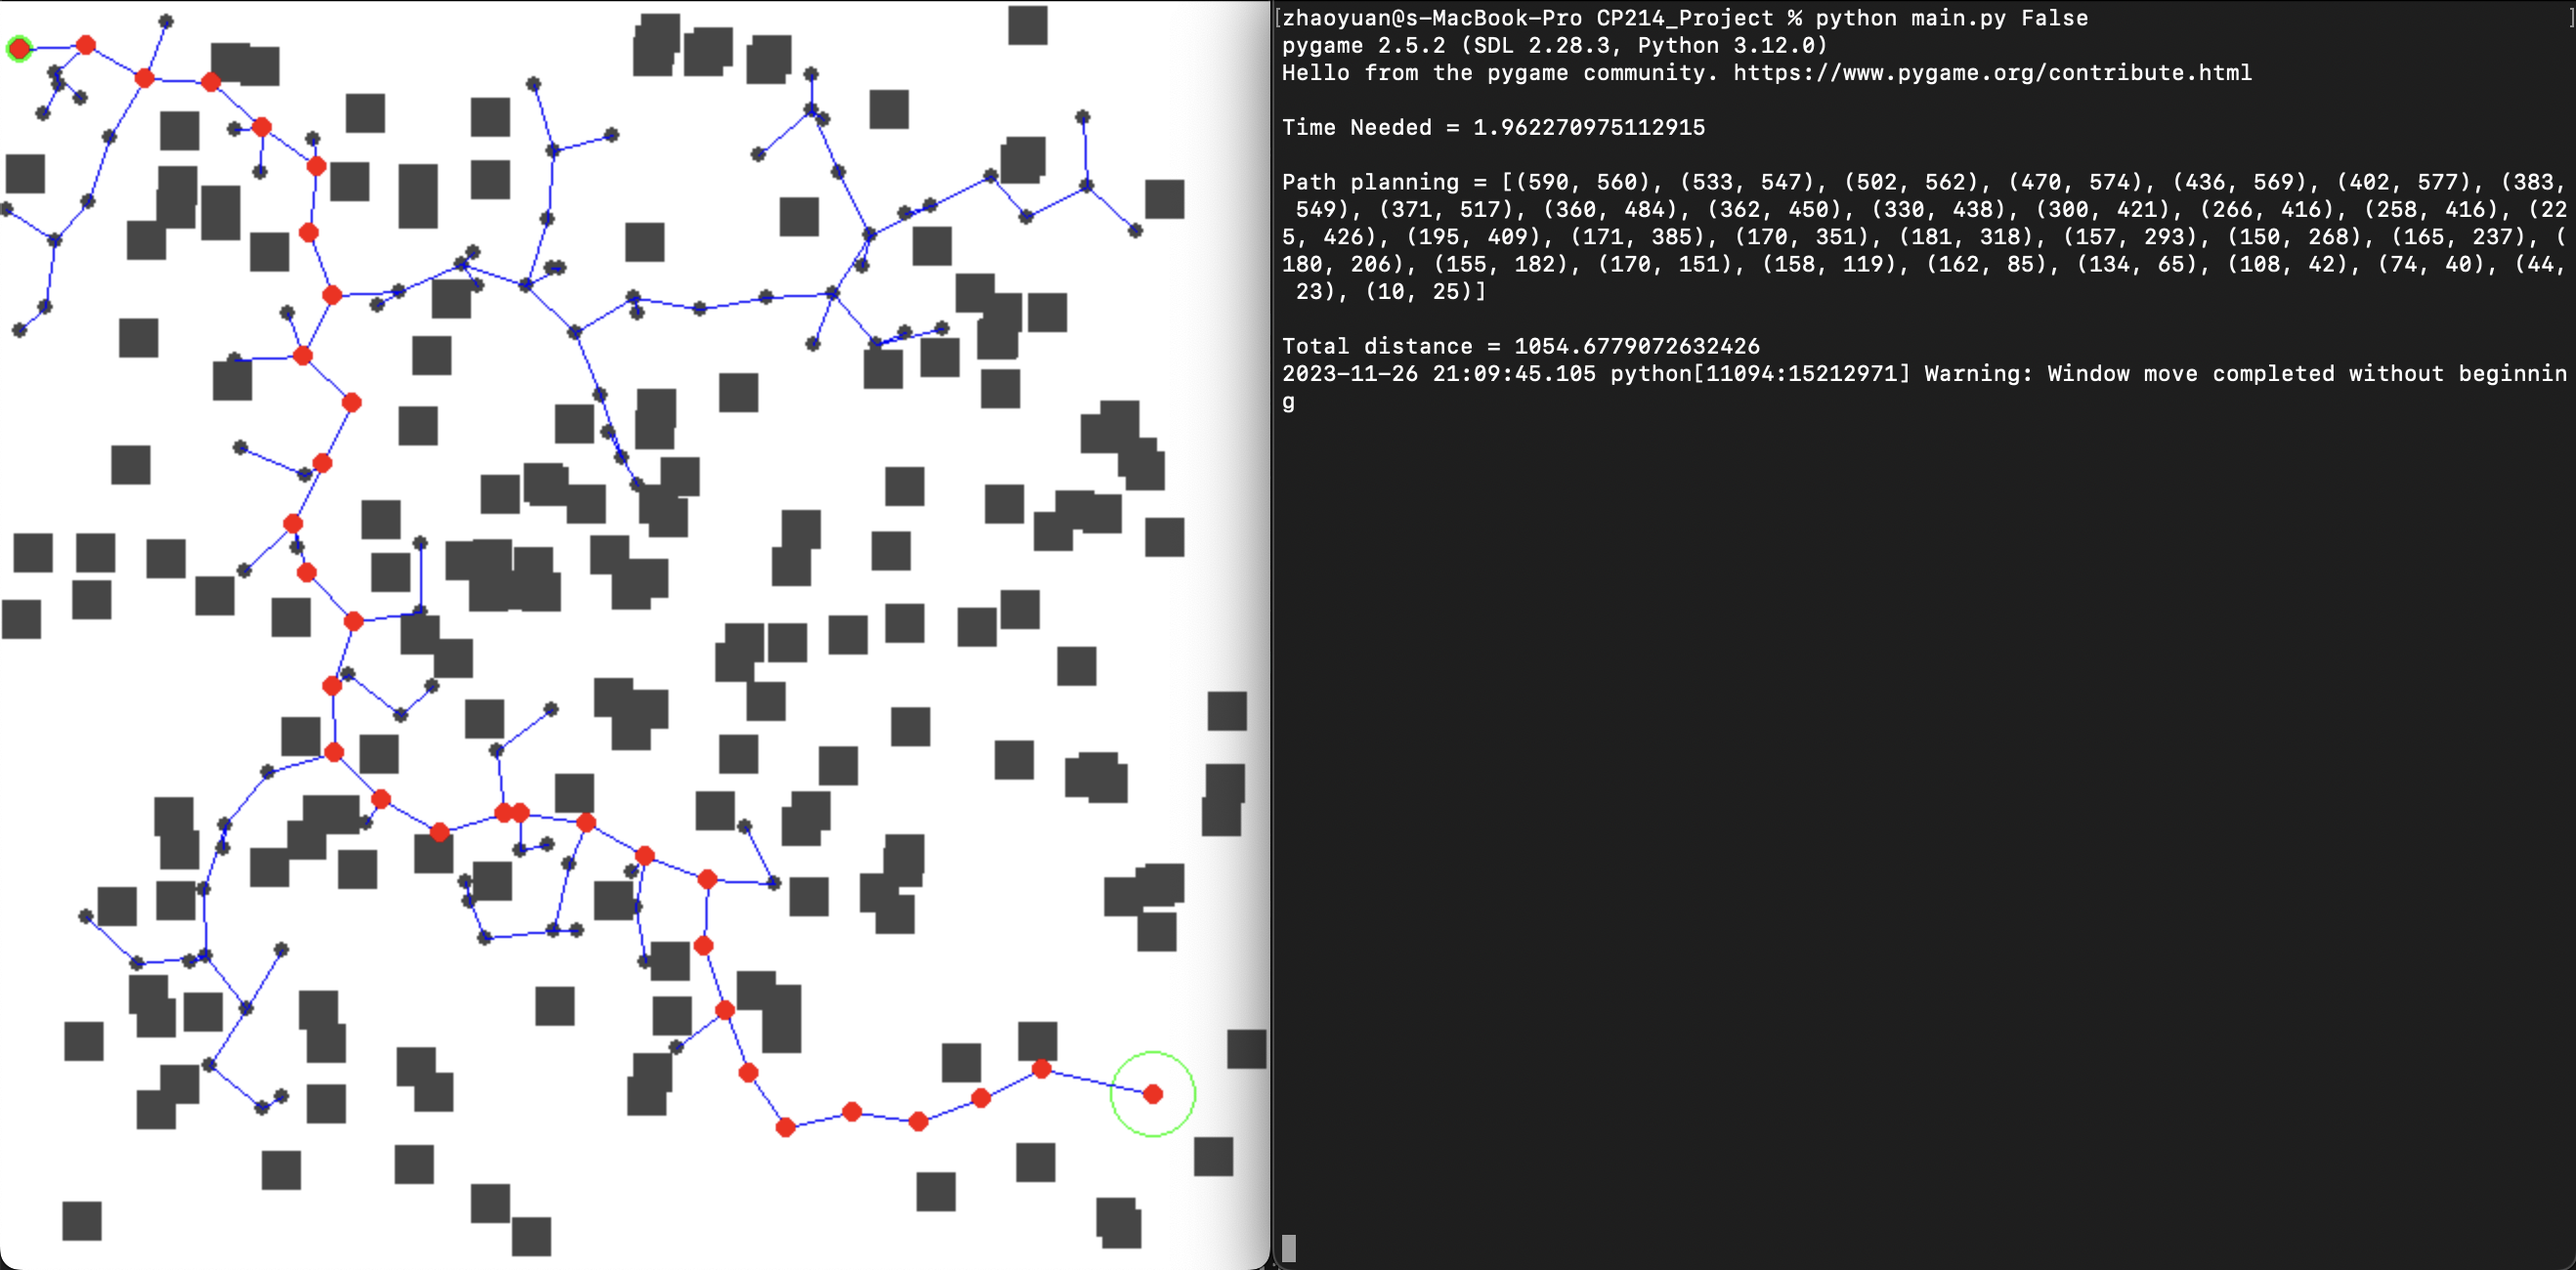
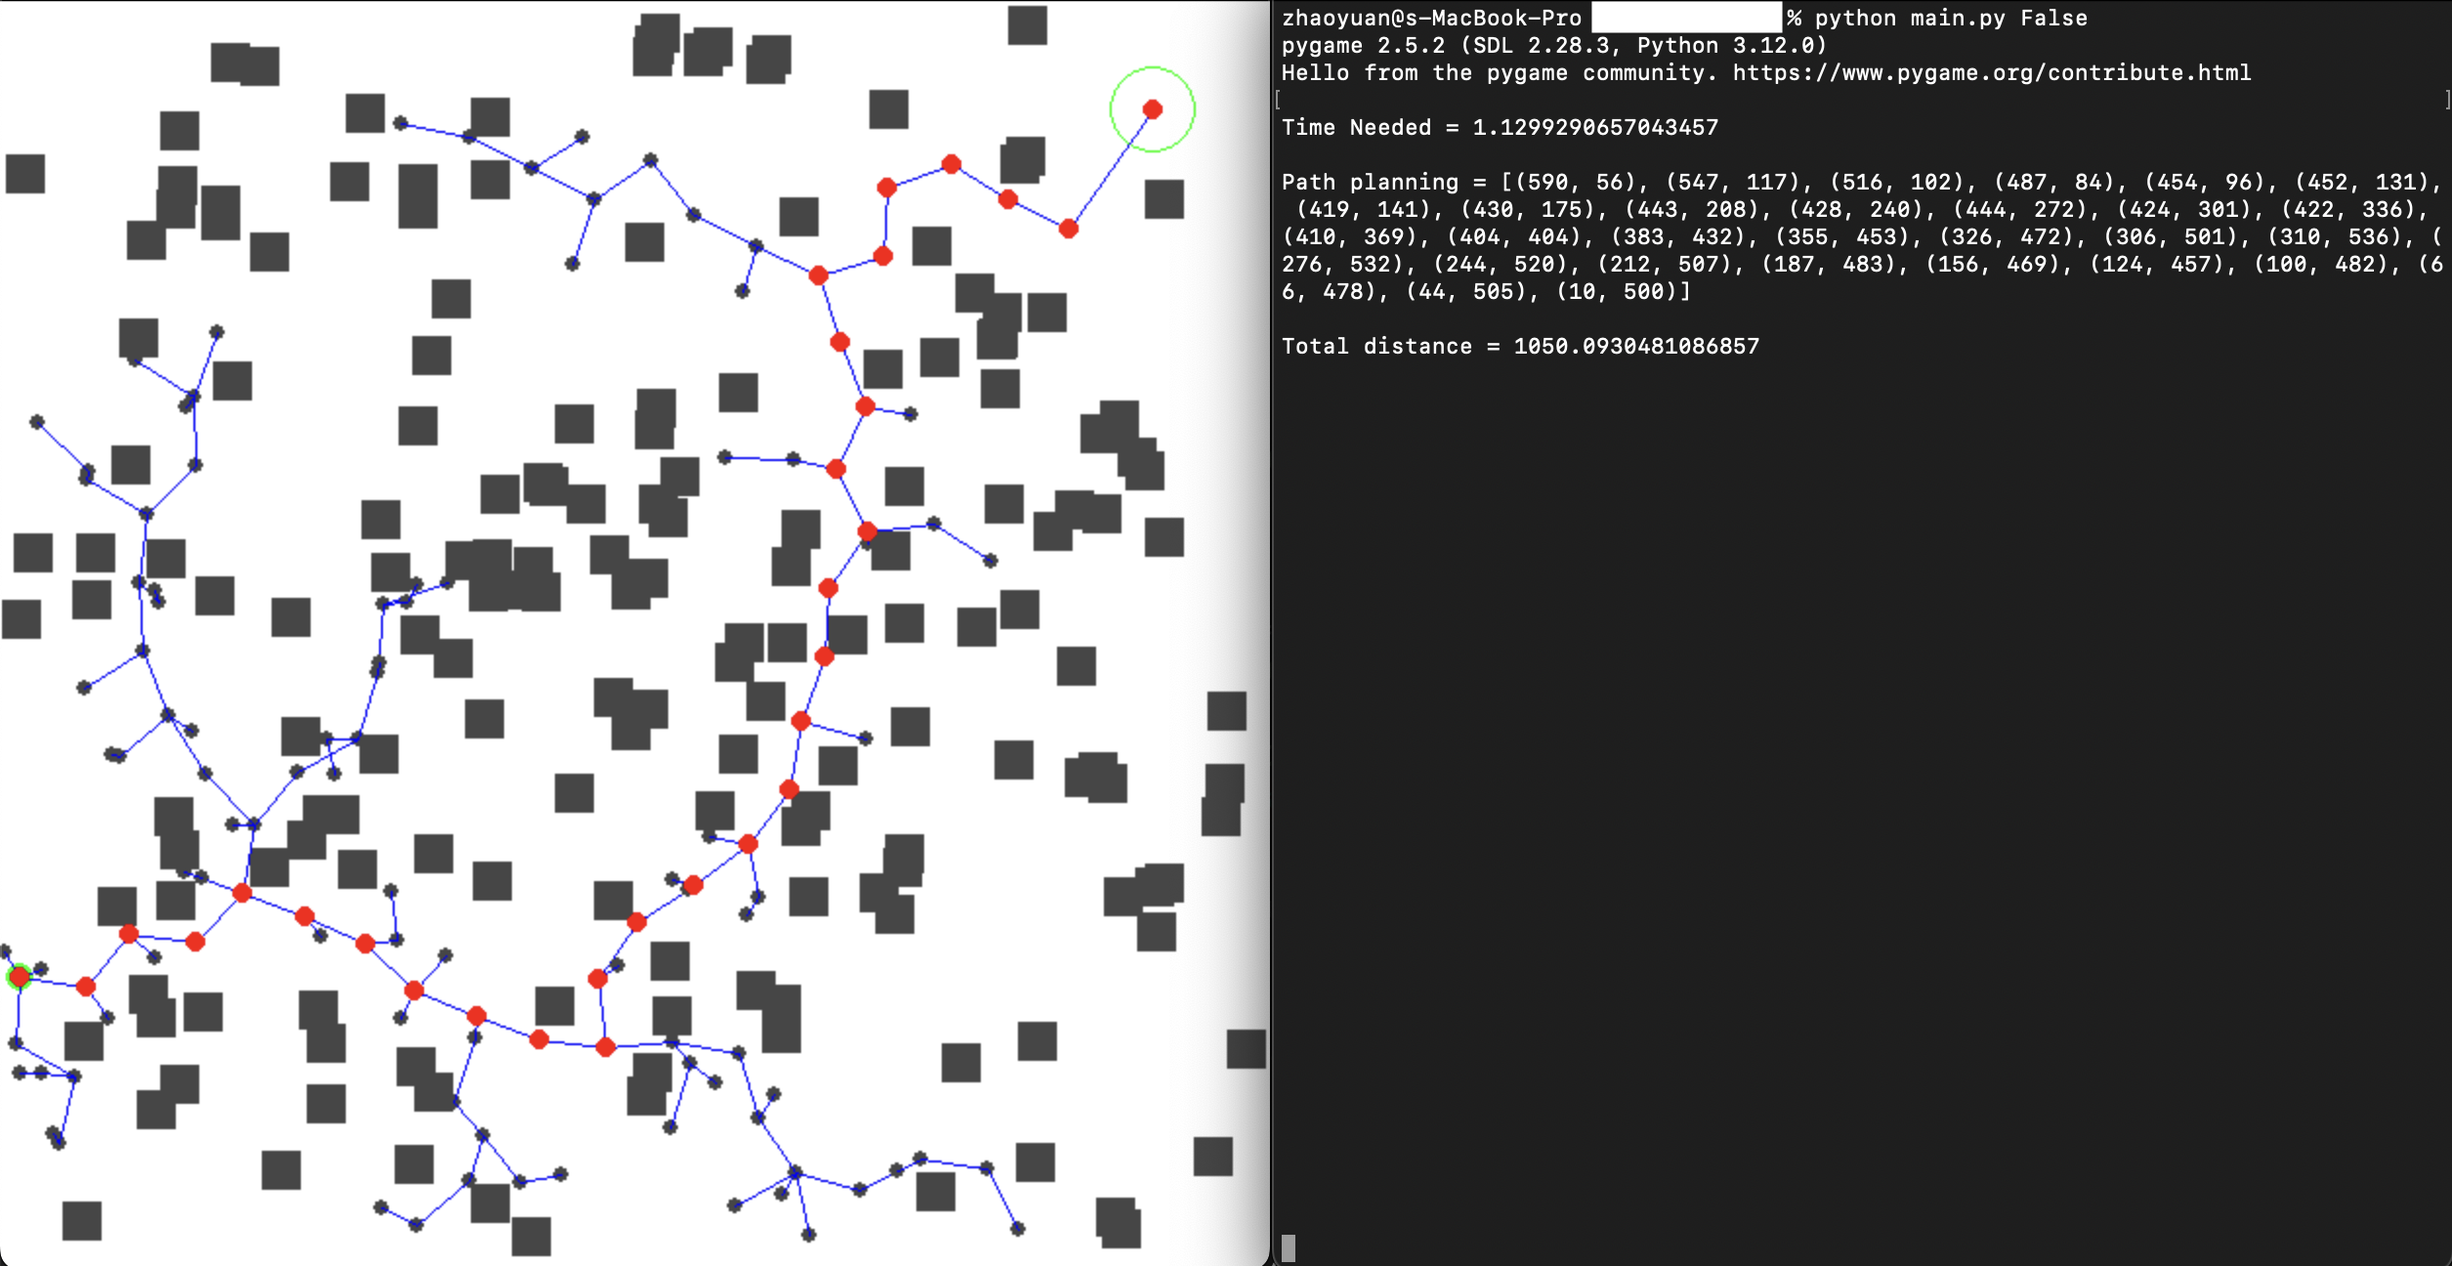
change the location

diff --git a/main.py b/main.py
@@ -9,8 +9,8 @@ import sys
 
 rrt_star = False
 
-start_pos = (2,5)
-end_pos = (40,30)
+start_pos = (2,30)
+end_pos = (40,5)
 n_obstacles = 50
 window_width = 150
 window_height = 150
@@ -18,8 +18,8 @@ window_height = 150
 obstacle_file_name = 'obstacle_file'
 rrt_window_width = 650
 rrt_window_height = 650
-rrt_start_pos = (10,25)
-rrt_end_pos = (590,560)
+rrt_start_pos = (10,500)
+rrt_end_pos = (590,56)
 rrt_n_obstacles = 200
 obstacle_dim = parameters.OBSTACLE_DIM
 
